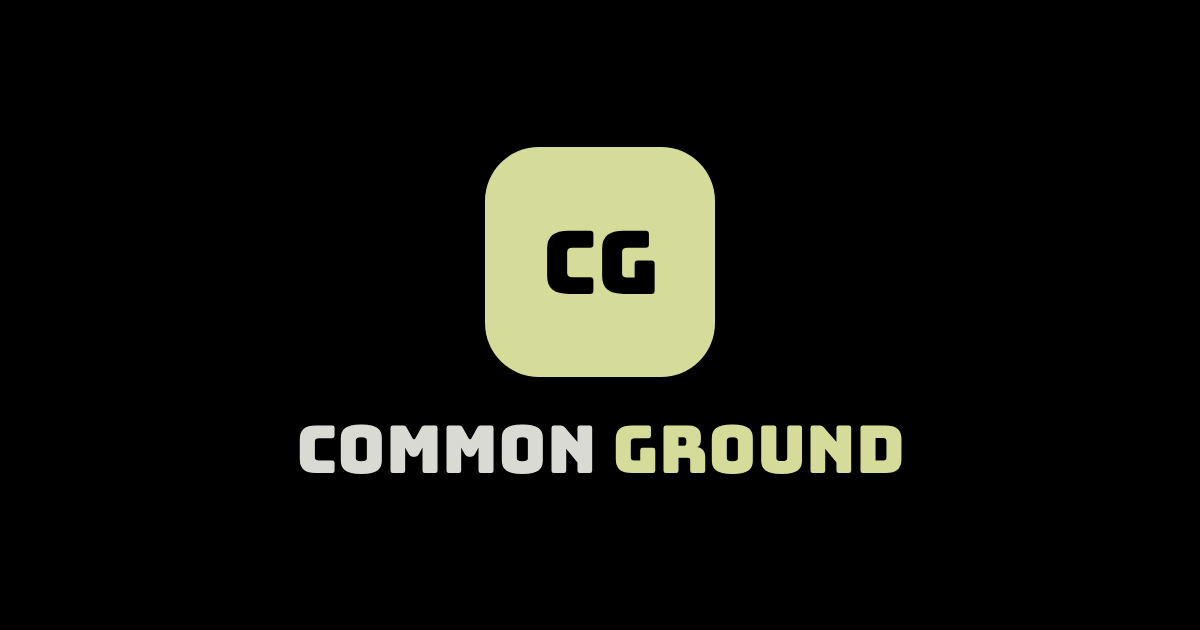
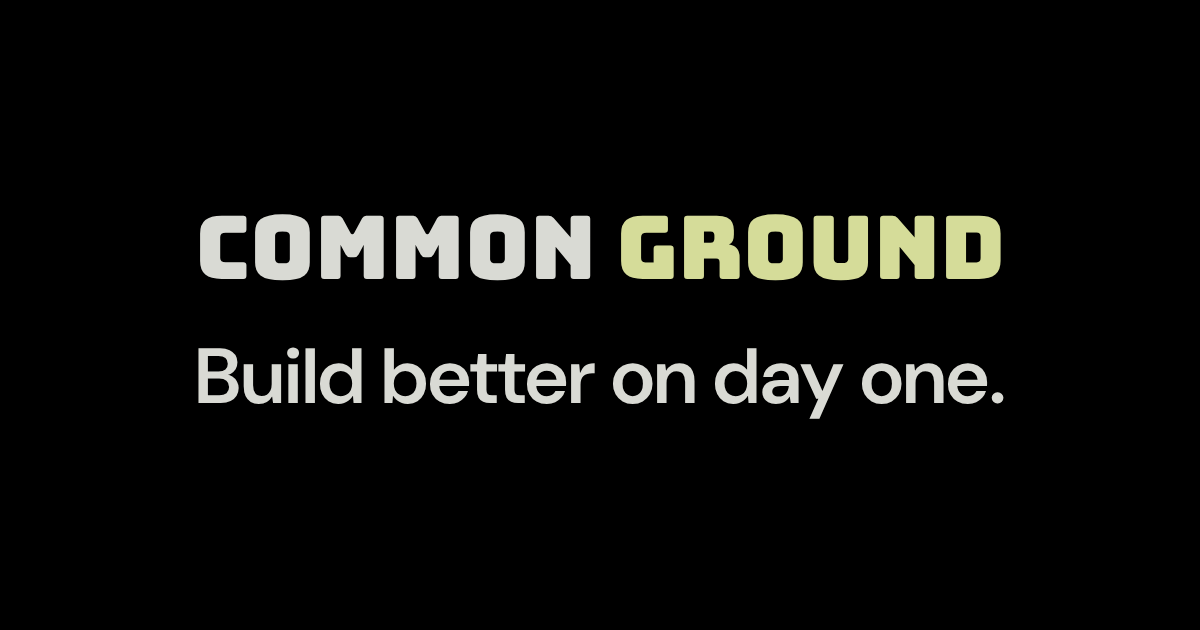
Add files via upload

Changed region(s): [[0.1542, 0.2111, 0.8325, 0.754]]

diff --git a/index.html b/index.html
@@ -9,12 +9,12 @@
 <meta property="og:site_name" content="Common Ground">
 <meta property="og:title" content="Common Ground — Build on common ground">
 <meta property="og:description" content="One place for homeowners and contractors: proposals, code checks, approvals, change orders and live progress. Free to use.">
-<meta property="og:image" content="https://www.buildcommonground.io/og.png?v=2">
+<meta property="og:image" content="https://www.buildcommonground.io/og.png?v=5">
 <meta property="og:image:width" content="1200">
 <meta property="og:image:height" content="630">
-<meta property="og:image:alt" content="Common Ground logo">
+<meta property="og:image:alt" content="Common Ground — Build better on day one.">
 <meta name="twitter:card" content="summary_large_image">
-<meta name="twitter:image" content="https://www.buildcommonground.io/og.png?v=2">
+<meta name="twitter:image" content="https://www.buildcommonground.io/og.png?v=5">
 <link rel="icon" type="image/png" href="/favicon.png?v=2">
 <link rel="apple-touch-icon" href="/apple-touch-icon.png?v=2">
 <meta name="theme-color" content="#111015">

diff --git a/api/_pages/bid.html b/api/_pages/bid.html
@@ -9,12 +9,12 @@
 <meta property="og:site_name" content="Common Ground">
 <meta property="og:title" content="Submit your proposal on Common Ground">
 <meta property="og:description" content="One place for homeowners and contractors: proposals, code checks, approvals, change orders and live progress. Free to use.">
-<meta property="og:image" content="https://www.buildcommonground.io/og.png?v=2">
+<meta property="og:image" content="https://www.buildcommonground.io/og.png?v=5">
 <meta property="og:image:width" content="1200">
 <meta property="og:image:height" content="630">
-<meta property="og:image:alt" content="Common Ground logo">
+<meta property="og:image:alt" content="Common Ground — Build better on day one.">
 <meta name="twitter:card" content="summary_large_image">
-<meta name="twitter:image" content="https://www.buildcommonground.io/og.png?v=2">
+<meta name="twitter:image" content="https://www.buildcommonground.io/og.png?v=5">
 <link rel="icon" type="image/png" href="/favicon.png?v=2">
 <link rel="apple-touch-icon" href="/apple-touch-icon.png?v=2">
 <meta name="theme-color" content="#111015">

diff --git a/api/_pages/login.html b/api/_pages/login.html
@@ -9,12 +9,12 @@
 <meta property="og:site_name" content="Common Ground">
 <meta property="og:title" content="Common Ground — your project">
 <meta property="og:description" content="One place for homeowners and contractors: proposals, code checks, approvals, change orders and live progress. Free to use.">
-<meta property="og:image" content="https://www.buildcommonground.io/og.png?v=2">
+<meta property="og:image" content="https://www.buildcommonground.io/og.png?v=5">
 <meta property="og:image:width" content="1200">
 <meta property="og:image:height" content="630">
-<meta property="og:image:alt" content="Common Ground logo">
+<meta property="og:image:alt" content="Common Ground — Build better on day one.">
 <meta name="twitter:card" content="summary_large_image">
-<meta name="twitter:image" content="https://www.buildcommonground.io/og.png?v=2">
+<meta name="twitter:image" content="https://www.buildcommonground.io/og.png?v=5">
 <link rel="icon" type="image/png" href="/favicon.png?v=2">
 <link rel="apple-touch-icon" href="/apple-touch-icon.png?v=2">
 <meta name="theme-color" content="#111015">

diff --git a/api/_pages/help.html b/api/_pages/help.html
@@ -9,12 +9,12 @@
 <meta property="og:site_name" content="Common Ground">
 <meta property="og:title" content="Common Ground — Contact us">
 <meta property="og:description" content="One place for homeowners and contractors: proposals, code checks, approvals, change orders and live progress. Free to use.">
-<meta property="og:image" content="https://www.buildcommonground.io/og.png?v=2">
+<meta property="og:image" content="https://www.buildcommonground.io/og.png?v=5">
 <meta property="og:image:width" content="1200">
 <meta property="og:image:height" content="630">
-<meta property="og:image:alt" content="Common Ground logo">
+<meta property="og:image:alt" content="Common Ground — Build better on day one.">
 <meta name="twitter:card" content="summary_large_image">
-<meta name="twitter:image" content="https://www.buildcommonground.io/og.png?v=2">
+<meta name="twitter:image" content="https://www.buildcommonground.io/og.png?v=5">
 <link rel="icon" type="image/png" href="/favicon.png?v=2">
 <link rel="apple-touch-icon" href="/apple-touch-icon.png?v=2">
 <meta name="theme-color" content="#111015">

diff --git a/api/_pages/admin.html b/api/_pages/admin.html
@@ -7,12 +7,12 @@
 <title>Common Ground — Platform console</title>
 <meta property="og:type" content="website">
 <meta property="og:site_name" content="Common Ground">
-<meta property="og:image" content="https://www.buildcommonground.io/og.png?v=2">
+<meta property="og:image" content="https://www.buildcommonground.io/og.png?v=5">
 <meta property="og:image:width" content="1200">
 <meta property="og:image:height" content="630">
-<meta property="og:image:alt" content="Common Ground logo">
+<meta property="og:image:alt" content="Common Ground — Build better on day one.">
 <meta name="twitter:card" content="summary_large_image">
-<meta name="twitter:image" content="https://www.buildcommonground.io/og.png?v=2">
+<meta name="twitter:image" content="https://www.buildcommonground.io/og.png?v=5">
 <link rel="icon" type="image/png" href="/favicon.png?v=2">
 <link rel="apple-touch-icon" href="/apple-touch-icon.png?v=2">
 <meta name="theme-color" content="#111015">

diff --git a/api/_pages/dashboard.html b/api/_pages/dashboard.html
@@ -7,12 +7,12 @@
 <title>Common Ground — Dashboard</title>
 <meta property="og:type" content="website">
 <meta property="og:site_name" content="Common Ground">
-<meta property="og:image" content="https://www.buildcommonground.io/og.png?v=2">
+<meta property="og:image" content="https://www.buildcommonground.io/og.png?v=5">
 <meta property="og:image:width" content="1200">
 <meta property="og:image:height" content="630">
-<meta property="og:image:alt" content="Common Ground logo">
+<meta property="og:image:alt" content="Common Ground — Build better on day one.">
 <meta name="twitter:card" content="summary_large_image">
-<meta name="twitter:image" content="https://www.buildcommonground.io/og.png?v=2">
+<meta name="twitter:image" content="https://www.buildcommonground.io/og.png?v=5">
 <link rel="icon" type="image/png" href="/favicon.png?v=2">
 <link rel="apple-touch-icon" href="/apple-touch-icon.png?v=2">
 <meta name="theme-color" content="#111015">

diff --git a/api/_pages/workspace.html b/api/_pages/workspace.html
@@ -7,12 +7,12 @@
 <title>Common Ground — Project</title>
 <meta property="og:type" content="website">
 <meta property="og:site_name" content="Common Ground">
-<meta property="og:image" content="https://www.buildcommonground.io/og.png?v=2">
+<meta property="og:image" content="https://www.buildcommonground.io/og.png?v=5">
 <meta property="og:image:width" content="1200">
 <meta property="og:image:height" content="630">
-<meta property="og:image:alt" content="Common Ground logo">
+<meta property="og:image:alt" content="Common Ground — Build better on day one.">
 <meta name="twitter:card" content="summary_large_image">
-<meta name="twitter:image" content="https://www.buildcommonground.io/og.png?v=2">
+<meta name="twitter:image" content="https://www.buildcommonground.io/og.png?v=5">
 <link rel="icon" type="image/png" href="/favicon.png?v=2">
 <link rel="apple-touch-icon" href="/apple-touch-icon.png?v=2">
 <meta name="theme-color" content="#111015">
